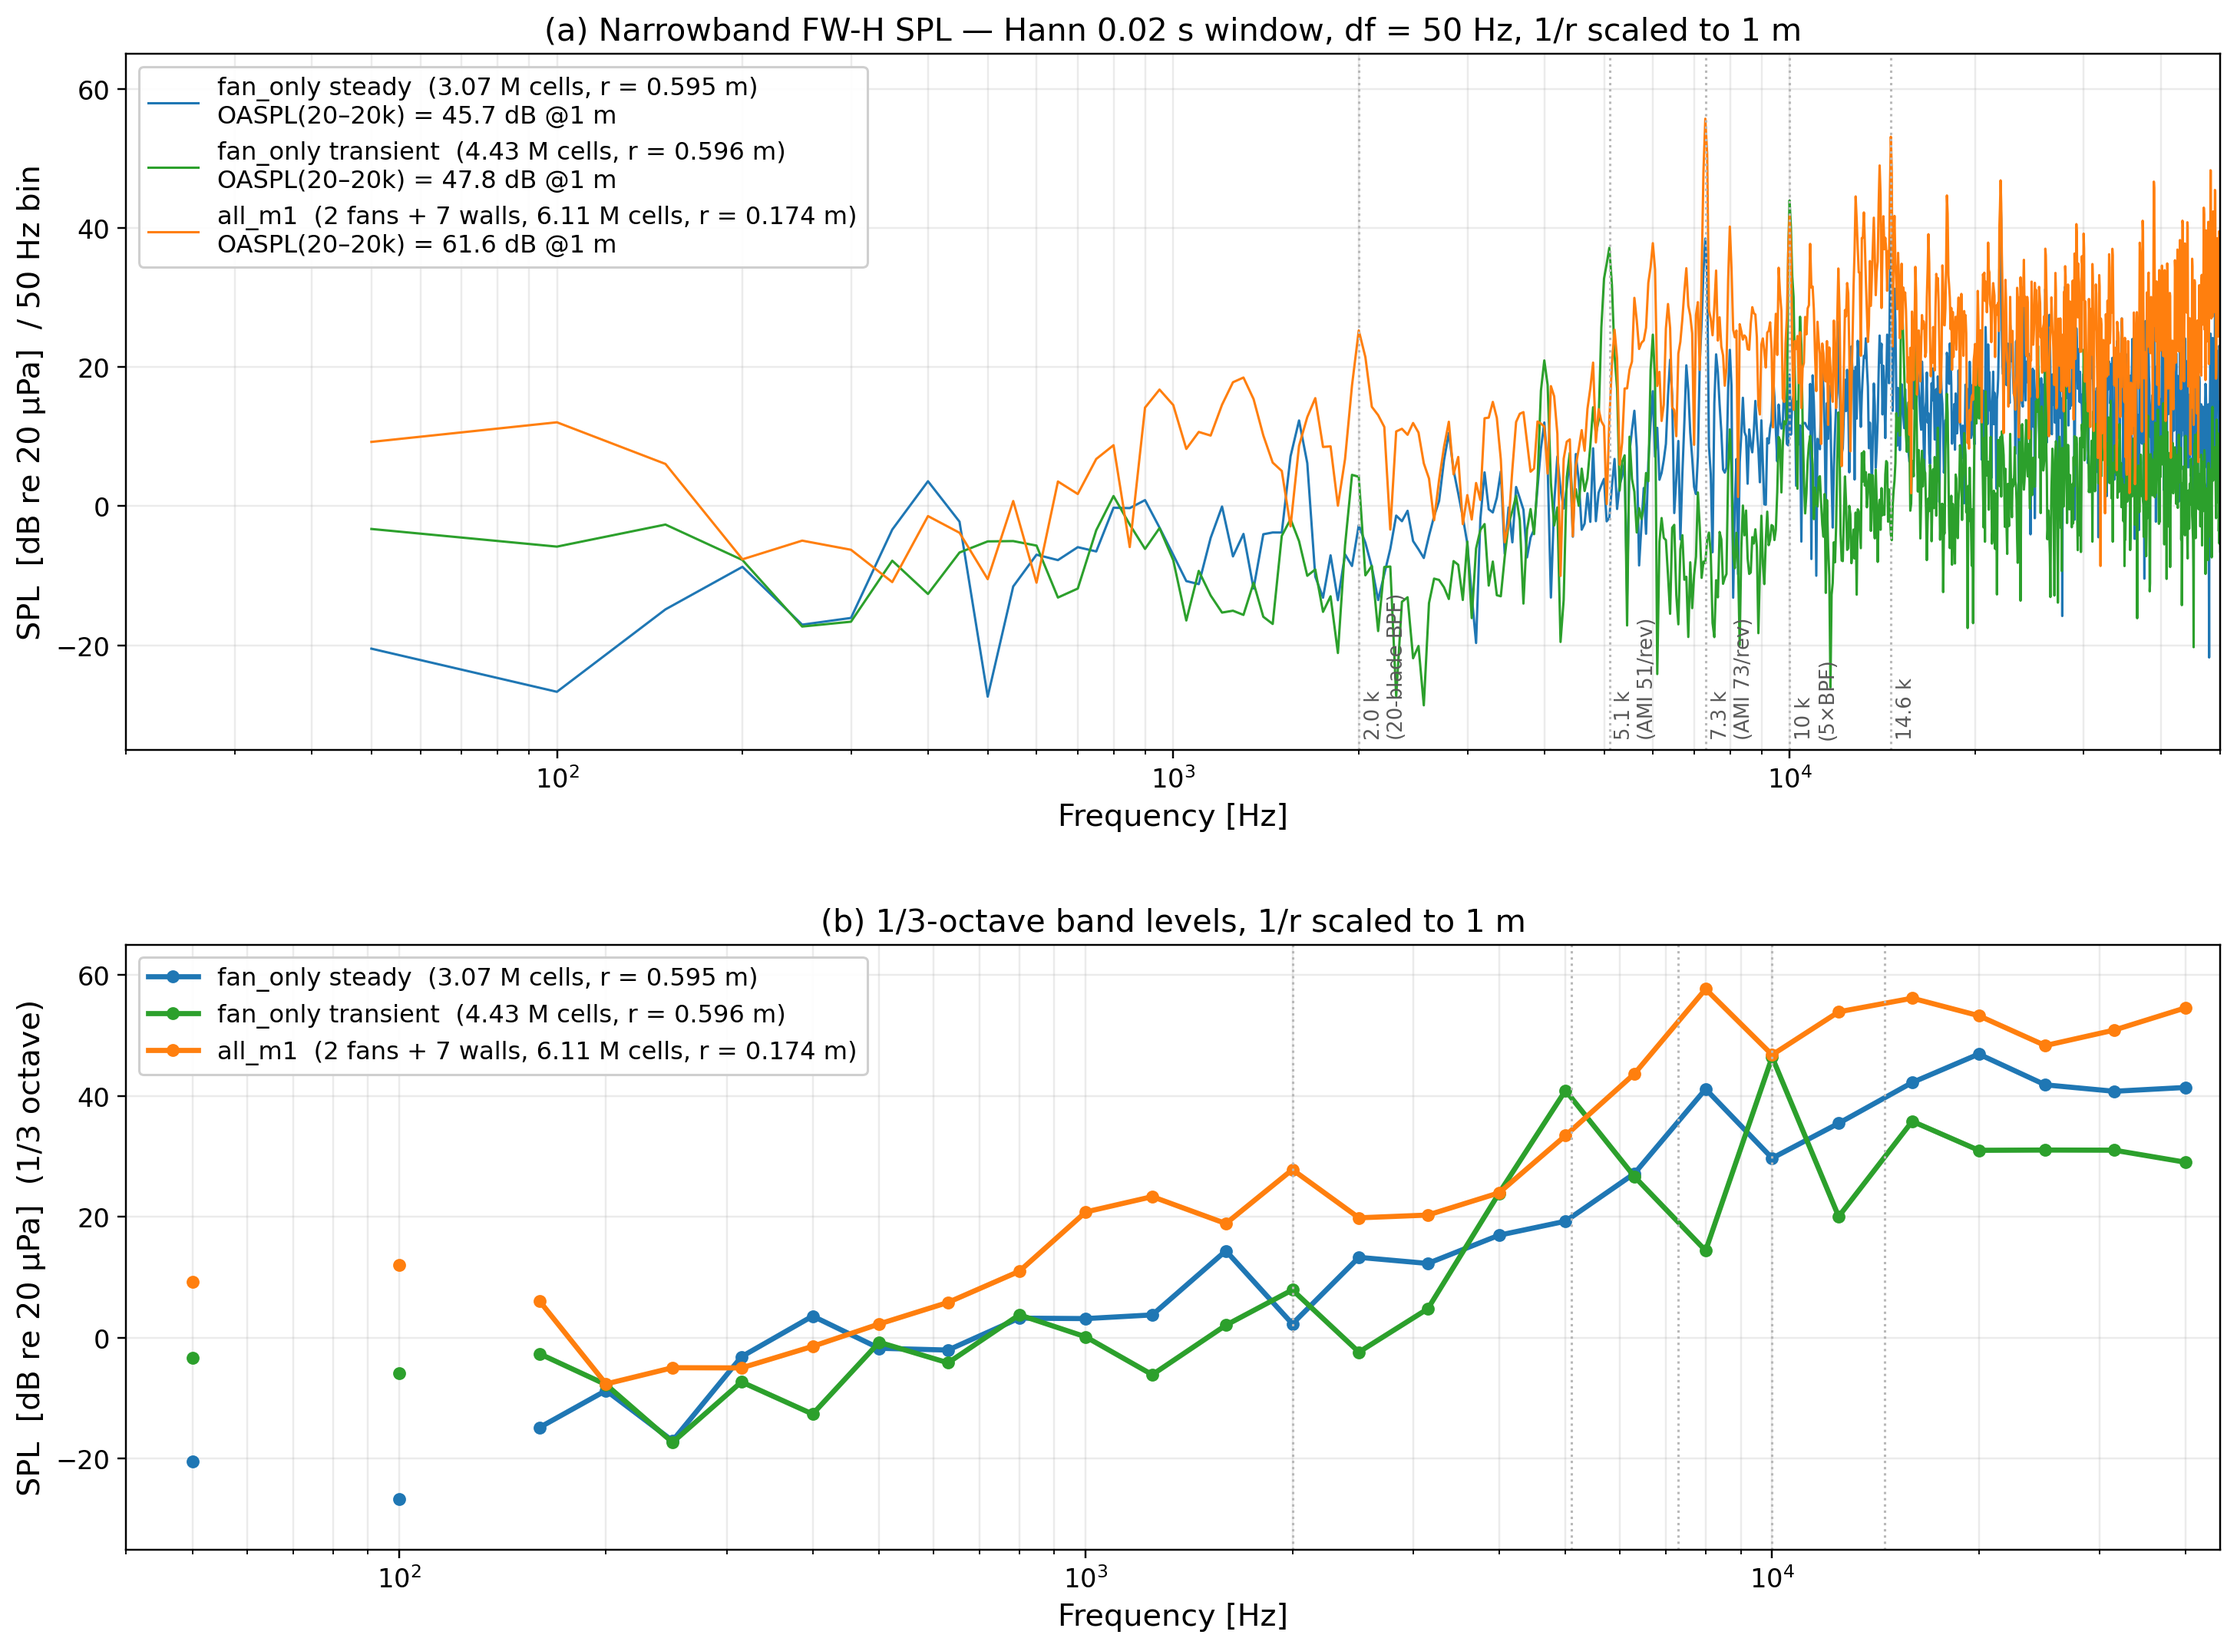
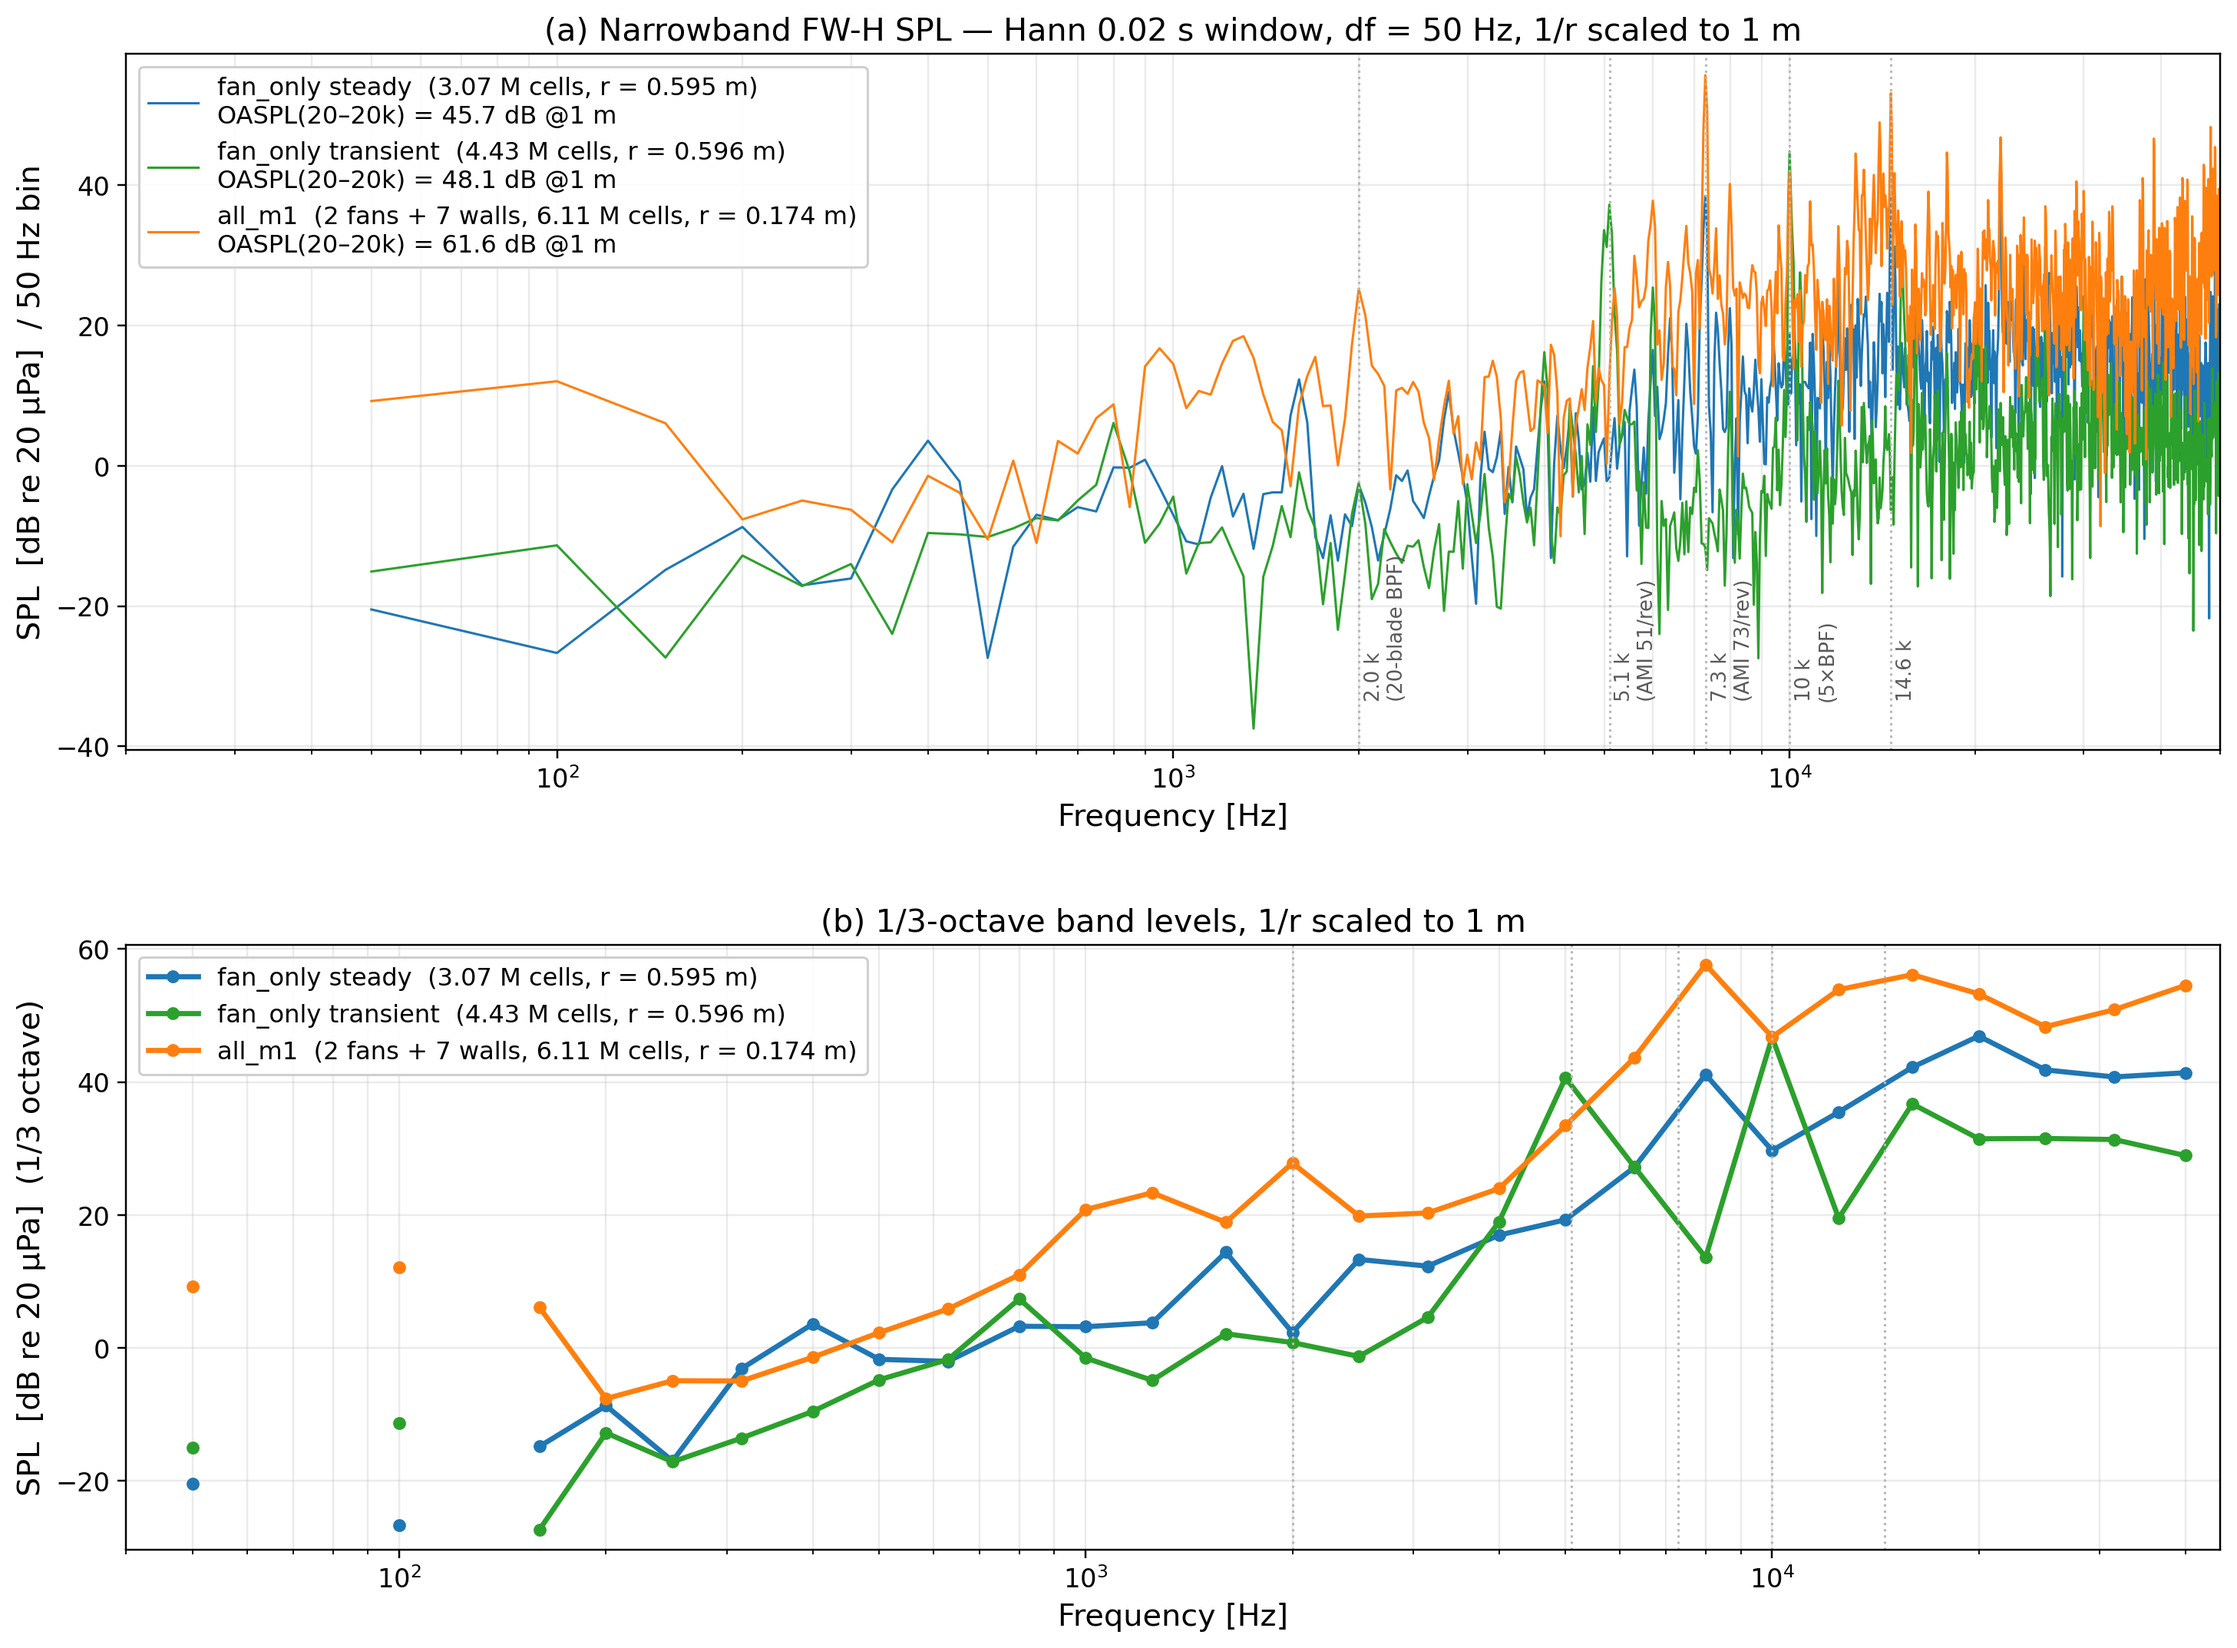
Refresh the transient case numbers and figures to the 8.5-rev window
- fanonly_transient now reaches 0.0849 s (8.5 revs) and its 2 ms RMS is
  strictly periodic with the revolution, i.e. it is a limit cycle
- 7.3 kHz 5.1 -> 0.9 dB, 5.1 kHz 45.2 -> 44.9 dB, >20 kHz fraction 0.07 -> 0.08
- regenerate the three-case, big-SPL and AMI-regularity figures
- fix the rotor-order axis of the AMI panel: all_m1 (2 log lines per step)
  was being drawn at half frequency

diff --git a/libAcoustics_analysis.md b/libAcoustics_analysis.md
@@ -1633,14 +1633,16 @@ python3 fft_aweight_analysis.py FwhImpellersFixedDelay-time.dat \
 
 ### 12.5 三算例对照：换掉 AMI 后 7.3 kHz 消失
 
-`fanonly_transient`（4.43 M 网格、多面体 AMI、matchTolerance 1e-2 + lowWeightCorrection 0.3）与
-`fanonly_steady`（3.07 M、quad AMI、matchTolerance 1e-3）是同一风扇、几乎同一麦克风位置（0.596 m / 0.595 m）。
+`fanonly_transient`（4.43 M 网格、多面体 AMI、matchTolerance 1e-2 + lowWeightCorrection 0.3，窗口 0.0649–0.0849 s，
+即第 8.5 转处的 2 转）与 `fanonly_steady`（3.07 M、quad AMI、matchTolerance 1e-3，窗口 0.0700–0.0900 s）
+是同一风扇、几乎同一麦克风位置（0.596 m / 0.595 m）。transient 的 2 ms RMS 已呈严格的一转（10 ms）周期，
+说明它已进入极限环，不是一个仍在演化的瞬态。
 
 | 指标 | fanonly_steady | fanonly_transient | all_m1 |
 |---|---:|---:|---:|
-| 7.3 kHz 峰 / dB | **45.3** | **5.1** | 72.7 |
-| 5.1 kHz 峰 / dB | 14.7 | **45.2** | 42.1 |
-| >20 kHz 能量占比 | 0.72 | **0.07** | 0.42 |
+| 7.3 kHz 峰 / dB | **45.3** | **0.9** | 72.7 |
+| 5.1 kHz 峰 / dB | 14.7 | **44.9** | 42.1 |
+| >20 kHz 能量占比 | 0.72 | **0.08** | 0.42 |
 | AMI 权重的优势阶 | 73, 146, 219 | **51, 50, 52, 102** | 73, 146, 219 |
 | AMI 主阶功率占比 | 93 % | 12 % | 93 % |
 
@@ -1672,7 +1674,7 @@ python3 fft_aweight_analysis.py FwhImpellersFixedDelay-time.dat \
 1. **7300 Hz 是 AMI 伪声，不是叶频**；"73 叶"的说法作废。凡包含该界面的算例（m1–m7、all_m1、fanonly_steady），
    做 5–20 kHz 分析时应先剔除 73 阶梳（7.3 / 14.6 / 21.9 kHz），再讨论"台阶"。
 2. 真实叶频族是 20 叶的 2 / 4 / 6 / 8 / 10 kHz；10 kHz 在细网格 transient 中被解析出来（50.7 dB，比 steady 高 25 dB）。
-3. `fanonly_transient` 把 >20 kHz 的假能量从 72 % 压到 **7 %**，是目前最实质的改善；代价是误差摊成 5.1 / 10.4 kHz 一组伪声。
+3. `fanonly_transient` 把 >20 kHz 的假能量从 72 % 压到 **8 %**，是目前最实质的改善；代价是误差摊成 5.1 / 10.4 kHz 一组伪声。
 4. 判断一个 FW-H 结果是否有 AMI 伪声，最快的判据是 `sum(weights)` 序列在转子阶次上的集中度：
    单阶 > 90 % 即窄带伪声，且"阶次 × 100 Hz"就是伪声频率。
 5. 更正一条此前的说法：transient 的"平均 Σw = 1.98"是**逐面 max 权重**的时间平均，不是 patch 平均；
